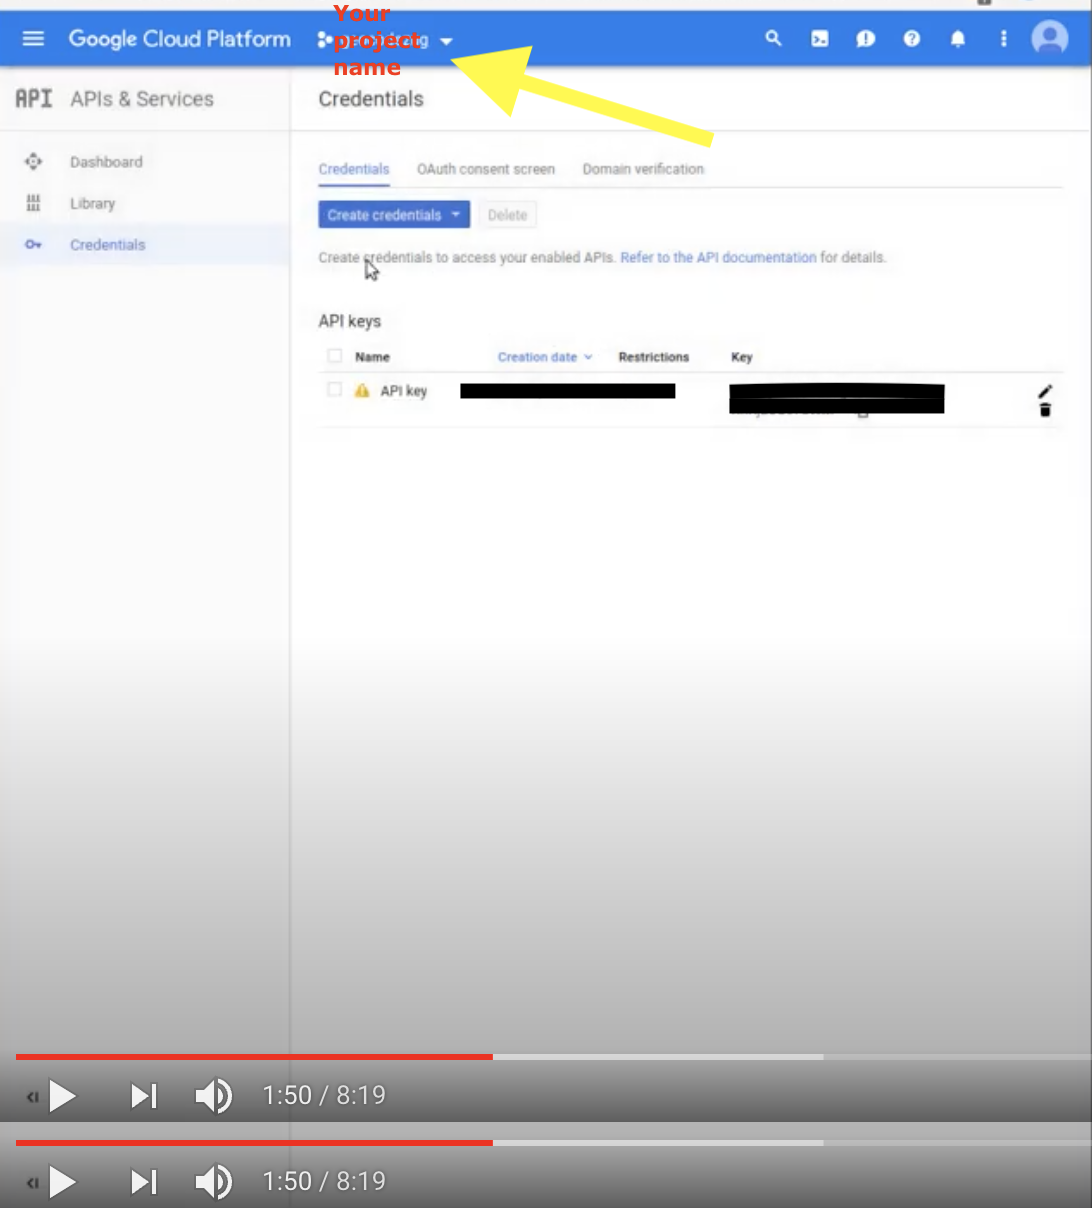
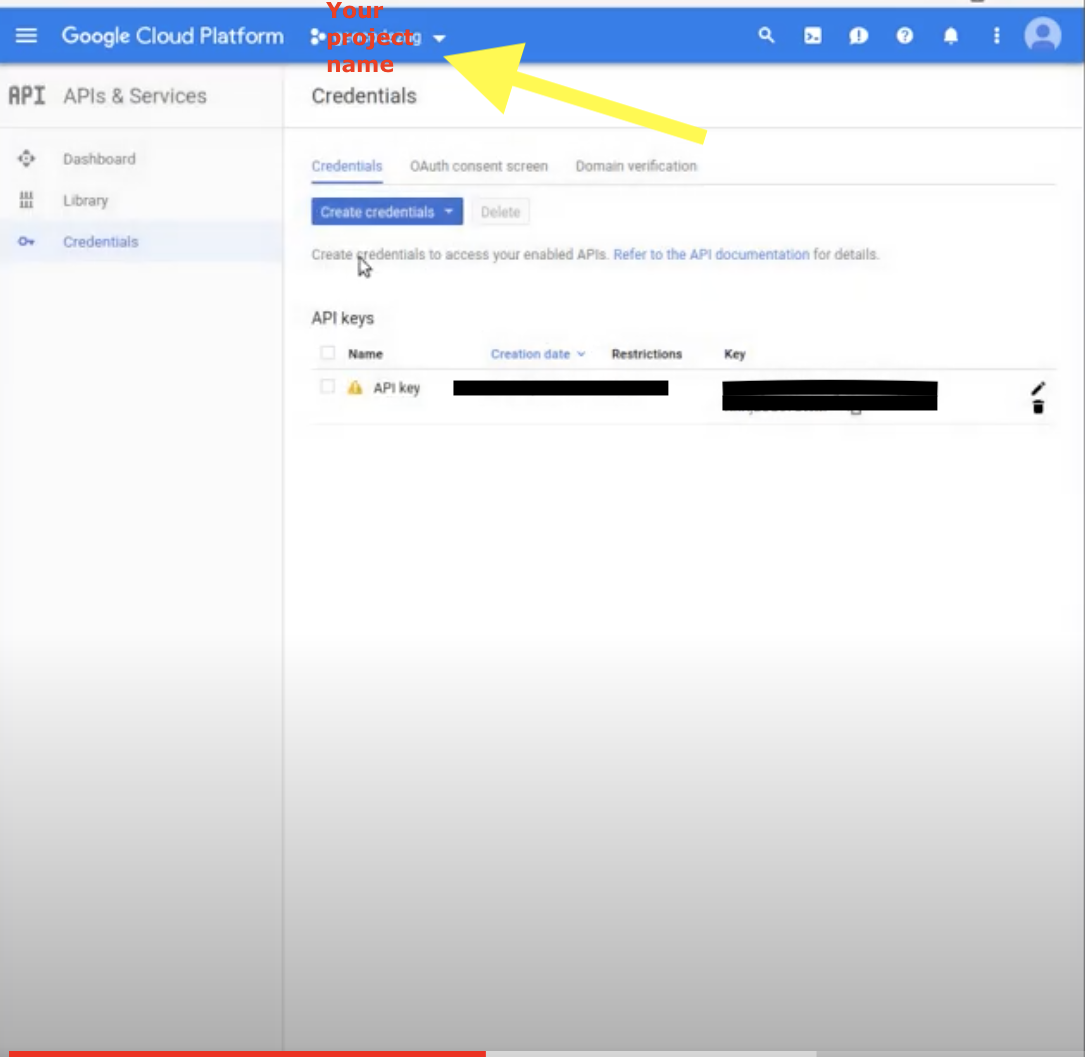
Readjusting figures size for correct pdf printing

diff --git a/slides/week5_Government_data.html b/slides/week5_Government_data.html
@@ -754,17 +754,17 @@ you would  need to create a Google maps API.
 # Step 4
 Create a new project and then 
 
-&lt;img src="images/st4.png" width="100%" style="display: block; margin: auto;" /&gt;
+&lt;img src="images/st4.png" width="90%" style="display: block; margin: auto;" /&gt;
 
 ---
 # Step 5
 
-&lt;img src="images/st5.png" width="100%" style="display: block; margin: auto;" /&gt;
+&lt;img src="images/st5.png" width="60%" style="display: block; margin: auto;" /&gt;
 
 ---
 # Step 6
 
-&lt;img src="images/st6.png" width="100%" style="display: block; margin: auto;" /&gt;
+&lt;img src="images/st6.png" width="60%" style="display: block; margin: auto;" /&gt;
 
 ---
 # Registering your API into ggmaps
